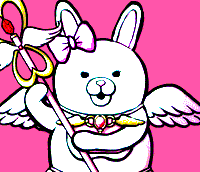
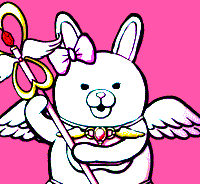
Usami: let raised wands reach into the clock band, outline the digits
Poses with art above their crop window (01, 02, 04, 09, 10, 12, mostly the
wand) now keep it: with "extend_into_clock" in convert.json, the image tool
makes those images taller, up to the clock band's height. The engine draws
an image's extra rows above the foreground area and slides it far enough
to hide it fully.

The clock is now drawn by a plain layer instead of a TextLayer, so a face
can set CLOCK_OUTLINE_COLOR and CLOCK_OUTLINE_W for an outline (the digits
drawn offset in that color, then the digits on top). On color screens the
outline is removed again wherever the pixel underneath was plain
BG_COLOR, so it shows only where the digits cross an image. Usami uses a
white outline; Monokuma has none and looks the same as before.

diff --git a/shared/src/c/main.c b/shared/src/c/main.c
@@ -9,8 +9,10 @@
 #include "face_config.h"
 
 #define SCREEN_H          PBL_DISPLAY_HEIGHT
+// s_fg_y is the top of the FG_W x FG_H foreground area. An image can be
+// taller than FG_H; the extra rows reach up into the clock band above it.
 #define FG_Y_SHOWN        (SCREEN_H - FG_H)
-#define FG_Y_HIDDEN       SCREEN_H
+#define FG_Y_HIDDEN       SCREEN_H   // for an image FG_H tall; see fg_y_hidden()
 #define CLOCK_H           FG_Y_SHOWN
 #define ANIM_INTERVAL_MS  33    // ~30 fps
 #define FADE_MAX          4     // fade steps; 4 * 33ms = 132ms per fade
@@ -51,8 +53,10 @@ typedef enum {
 
 static Window    *s_window;
 static Layer     *s_canvas_layer;
-static TextLayer *s_time_layer;
+static Layer     *s_time_layer;   // the clock, drawn by time_update_proc
 static GFont      s_custom_font;
+static GFont      s_clock_gfont;   // the font in use (custom or LECO)
+static const char *s_time_text = "";
 
 // Clock fonts offered in the settings; values match config.js.
 typedef enum {
@@ -110,6 +114,21 @@ static void select_and_load_fg(void) {
     s_fg_bitmap = gbitmap_create_with_resource(s_fg_res_ids[idx]);
 }
 
+static void set_time_text(const char *text) {
+    s_time_text = text;
+    if (s_time_layer) layer_mark_dirty(s_time_layer);
+}
+
+// Rows the current image reaches above the foreground area.
+static int fg_extra_h(void) {
+    return s_fg_bitmap ? gbitmap_get_bounds(s_fg_bitmap).size.h - FG_H : 0;
+}
+
+// s_fg_y at which the current image is fully below the screen.
+static int fg_y_hidden(void) {
+    return FG_Y_HIDDEN + fg_extra_h();
+}
+
 static void update_time(void) {
 #if DEBUG_CYCLE
     if (s_last_fg >= 0) {
@@ -117,7 +136,7 @@ static void update_time(void) {
         s_time_buf[0] = '0' + n / 10;
         s_time_buf[1] = '0' + n % 10;
         s_time_buf[2] = '\0';
-        text_layer_set_text(s_time_layer, s_time_buf);
+        set_time_text(s_time_buf);
         return;
     }
 #endif
@@ -126,11 +145,10 @@ static void update_time(void) {
     if (!t) return;
     if (clock_is_24h_style()) {
         strftime(s_time_buf, sizeof(s_time_buf), "%H:%M", t);
-        text_layer_set_text(s_time_layer, s_time_buf);
+        set_time_text(s_time_buf);
     } else {
         strftime(s_time_buf, sizeof(s_time_buf), "%I:%M", t);
-        text_layer_set_text(s_time_layer,
-            s_time_buf[0] == '0' ? s_time_buf + 1 : s_time_buf);
+        set_time_text(s_time_buf[0] == '0' ? s_time_buf + 1 : s_time_buf);
     }
 }
 
@@ -163,8 +181,84 @@ static void canvas_update_proc(Layer *layer, GContext *ctx) {
     if (s_fg_bitmap) {
         graphics_context_set_compositing_mode(ctx, GCompOpSet);
         graphics_draw_bitmap_in_rect(ctx, s_fg_bitmap,
-                                     GRect(FG_X, s_fg_y, FG_W, FG_H));
+                                     GRect(FG_X, s_fg_y - fg_extra_h(),
+                                           FG_W, FG_H + fg_extra_h()));
     }
+}
+
+// ============================================================================
+// CLOCK
+// ============================================================================
+
+static void draw_time(GContext *ctx, GRect box, GColor color) {
+    graphics_context_set_text_color(ctx, color);
+    graphics_draw_text(ctx, s_time_text, s_clock_gfont, box,
+                       GTextOverflowModeWordWrap, GTextAlignmentCenter, NULL);
+}
+
+#ifdef CLOCK_OUTLINE_COLOR
+// The outline shows only where the digits cross the image (a pose reaching
+// into the clock band), not over the plain background. On color screens the
+// update proc notes which pixels under the clock are plain BG_COLOR before
+// drawing, then turns the outline back to BG_COLOR there. On black-and-white
+// screens the background is white like the outline, so no fix-up is needed.
+#if defined(PBL_COLOR)
+#define CLOCK_MASK_BYTES  ((PBL_DISPLAY_WIDTH * CLOCK_H + 7) / 8)
+static uint8_t s_bg_mask[CLOCK_MASK_BYTES];  // 1 = plain background pixel
+
+// For each screen pixel in rows [0, rows): record (record=true) whether it
+// is BG_COLOR, or restore (record=false) outline pixels recorded as BG_COLOR.
+static void scan_clock_band(GContext *ctx, int rows, bool record) {
+    GBitmap *fb = graphics_capture_frame_buffer(ctx);
+    if (!fb) return;
+    const uint8_t bg = BG_COLOR.argb;
+    const uint8_t outline = CLOCK_OUTLINE_COLOR.argb;
+    for (int y = 0; y < rows; y++) {
+        GBitmapDataRowInfo row = gbitmap_get_data_row_info(fb, y);
+        for (int x = row.min_x; x <= row.max_x; x++) {
+            int i = y * PBL_DISPLAY_WIDTH + x;
+            uint8_t bit = 1 << (i & 7);
+            if (record) {
+                if (row.data[x] == bg) s_bg_mask[i >> 3] |= bit;
+                else                   s_bg_mask[i >> 3] &= ~bit;
+            } else if ((s_bg_mask[i >> 3] & bit) && row.data[x] == outline) {
+                row.data[x] = bg;
+            }
+        }
+    }
+    graphics_release_frame_buffer(ctx, fb);
+}
+#endif
+#endif
+
+static void time_update_proc(Layer *layer, GContext *ctx) {
+    GRect box = layer_get_bounds(layer);
+#ifdef CLOCK_OUTLINE_COLOR
+    // The layer's rows on screen that the clock can draw in.
+    GRect frame = layer_get_frame(layer);
+    int rows = frame.origin.y + frame.size.h;
+    if (rows > CLOCK_H) rows = CLOCK_H;
+#if defined(PBL_COLOR)
+    scan_clock_band(ctx, rows, true);
+#endif
+    const int w = CLOCK_OUTLINE_W;
+    for (int dy = -w; dy <= w; dy++) {
+        for (int dx = -w; dx <= w; dx++) {
+            if ((dx || dy) && dx * dx + dy * dy <= w * w + w) {
+                draw_time(ctx, GRect(box.origin.x + dx, box.origin.y + dy,
+                                     box.size.w, box.size.h),
+                          CLOCK_OUTLINE_COLOR);
+            }
+        }
+    }
+    draw_time(ctx, box, CLOCK_COLOR);
+#if defined(PBL_COLOR)
+    scan_clock_band(ctx, rows, false);
+#endif
+    (void)rows;
+#else
+    draw_time(ctx, box, CLOCK_COLOR);
+#endif
 }
 
 // ============================================================================
@@ -215,8 +309,8 @@ static void anim_timer_callback(void *data) {
 
         case STATE_SLIDING_DOWN:
             s_fg_y += SLIDE_STEP;
-            if (s_fg_y >= FG_Y_HIDDEN) {
-                s_fg_y = FG_Y_HIDDEN;
+            if (s_fg_y >= fg_y_hidden()) {
+                s_fg_y = fg_y_hidden();
                 layer_mark_dirty(s_canvas_layer);
                 start_fade_in(AFTER_PAUSE);
                 return;
@@ -239,7 +333,7 @@ static void anim_timer_callback(void *data) {
 #endif
                     if (!s_clock_appeared) {
                         s_clock_appeared = true;
-                        layer_set_hidden(text_layer_get_layer(s_time_layer), false);
+                        layer_set_hidden(s_time_layer, false);
                     }
                 } else if (action == AFTER_PAUSE) {
                     s_state = STATE_PAUSING;
@@ -277,7 +371,7 @@ static void start_fade_in(AfterFade next) {
 
 static void start_slide_up(void) {
     s_state = STATE_SLIDING_UP;
-    s_fg_y = FG_Y_HIDDEN;
+    s_fg_y = fg_y_hidden();
     layer_mark_dirty(s_canvas_layer);
     s_anim_timer = app_timer_register(ANIM_INTERVAL_MS, anim_timer_callback, NULL);
 }
@@ -314,14 +408,14 @@ static void apply_shake_setting(void) {
 
 static void apply_clock_font(void) {
     if (!s_time_layer) return;
-    Layer *layer = text_layer_get_layer(s_time_layer);
+    Layer *layer = s_time_layer;
     GRect frame = layer_get_frame(layer);
     if (s_clock_font == CLOCK_FONT_LECO) {
-        text_layer_set_font(s_time_layer, fonts_get_system_font(LECO_KEY));
+        s_clock_gfont = fonts_get_system_font(LECO_KEY);
         frame.origin.y = LECO_Y;
         frame.size.h = CLOCK_H - LECO_Y;
     } else {
-        text_layer_set_font(s_time_layer, s_custom_font);
+        s_clock_gfont = s_custom_font;
         frame.origin.y = CUSTOM_FONT_Y;
         frame.size.h = CLOCK_H - CUSTOM_FONT_Y;
     }
@@ -387,12 +481,10 @@ static void window_load(Window *window) {
 
     s_custom_font = fonts_load_custom_font(
         resource_get_handle(CUSTOM_FONT_RES));
-    s_time_layer = text_layer_create(GRect(0, 0, bounds.size.w, CLOCK_H));
-    text_layer_set_background_color(s_time_layer, GColorClear);
-    text_layer_set_text_color(s_time_layer, CLOCK_COLOR);
-    text_layer_set_text_alignment(s_time_layer, GTextAlignmentCenter);
-    layer_set_hidden(text_layer_get_layer(s_time_layer), true);
-    layer_add_child(root, text_layer_get_layer(s_time_layer));
+    s_time_layer = layer_create(GRect(0, 0, bounds.size.w, CLOCK_H));
+    layer_set_update_proc(s_time_layer, time_update_proc);
+    layer_set_hidden(s_time_layer, true);
+    layer_add_child(root, s_time_layer);
 
     apply_clock_font();
     apply_shake_setting();
@@ -412,7 +504,7 @@ static void window_unload(Window *window) {
     accel_tap_service_unsubscribe();
     tick_timer_service_unsubscribe();
 
-    if (s_time_layer)  { text_layer_destroy(s_time_layer);  s_time_layer  = NULL; }
+    if (s_time_layer)  { layer_destroy(s_time_layer);       s_time_layer  = NULL; }
     if (s_custom_font) { fonts_unload_custom_font(s_custom_font); s_custom_font = NULL; }
     if (s_canvas_layer){ layer_destroy(s_canvas_layer);     s_canvas_layer = NULL; }
     if (s_fg_bitmap)   { gbitmap_destroy(s_fg_bitmap);      s_fg_bitmap   = NULL; }

diff --git a/shared/tools/convert_images.py b/shared/tools/convert_images.py
@@ -43,6 +43,11 @@ A face can have a faces/<face>/convert.json; every key is optional:
         platform's foreground shape needs. It replaces the automatic zoom,
         so a face can show its character at the same size in every pose;
         anything outside the view is cut off.
+    "extend_into_clock": true  with "crops": a pose with more of the
+        character above its view (a raised wand) keeps it, up to the height
+        of the clock band. That image is taller than the foreground area,
+        and the engine draws the extra rows over the band. The band must be
+        plain background color, so the extra rows can be opaque.
 Without background1.png's red shape, the menu icon comes from
 unscaled/menu_icon.png (an RGBA image of any size) instead.
 
@@ -139,12 +144,27 @@ SUN = [
 ATKINSON = [(1, 0), (2, 0), (-1, 1), (0, 1), (1, 1), (0, 2)]
 
 
-def crop_view(src, fg_w, fg_h, fill, view):
-    """Scale a fixed view of src (see "crops" above) to fg_w x fg_h."""
+def crop_view(src, fg_w, fg_h, fill, view, max_extra=0):
+    """Scale a fixed view of src (see "crops" above) to fg_w x fg_h.
+
+    With max_extra > 0, the result grows upward by up to max_extra rows to
+    keep any part of the character above the view.
+    """
     flat = flatten(src, fill)
     top, bottom = view["top"], view["bottom"]
+    zoom = fg_h / (bottom - top)
     crop_w = (bottom - top) * fg_w / fg_h
     left = view["center_x"] - crop_w / 2
+    out_h = fg_h
+    if max_extra > 0:
+        # Highest visible pixel of the character within the view's columns.
+        alpha = np.asarray(src.convert("RGBA").getchannel("A"))
+        x0, x1 = max(0, int(left)), min(src.width, int(left + crop_w) + 1)
+        rows = np.nonzero((alpha[:, x0:x1] > 64).any(axis=1))[0]
+        if len(rows) and rows[0] < top:
+            extra = min(max_extra, int(np.ceil((top - rows[0]) * zoom)) + 1)
+            out_h = fg_h + extra
+            top -= extra / zoom
     # Pad so a view past the image edges still works.
     pad = int(max(-left, -top, left + crop_w - flat.width,
                   bottom - flat.height, 0)) + 1
@@ -152,7 +172,7 @@ def crop_view(src, fg_w, fg_h, fill, view):
                        fill)
     padded.paste(flat, (pad, pad))
     box = (left + pad, top + pad, left + crop_w + pad, bottom + pad)
-    return padded.resize((fg_w, fg_h), Image.LANCZOS, box=box)
+    return padded.resize((fg_w, out_h), Image.LANCZOS, box=box)
 
 
 def scale(src, fg_w, fg_h, fill=(0, 0, 0)):
@@ -406,7 +426,10 @@ def main():
             name = f"front{n:02d}.png"
             src = Image.open(os.path.join(unscaled, name))
             if name in crops:
-                scaled = crop_view(src, fg_w, fg_h, fill, crops[name])
+                max_extra = (spec["screen"][1] - fg_h
+                             if config.get("extend_into_clock") else 0)
+                scaled = crop_view(src, fg_w, fg_h, fill, crops[name],
+                                   max_extra)
             else:
                 scaled = scale(src, fg_w, fg_h, fill)
             out = f"front{n:02d}{suffix}.png"

diff --git a/faces/usami/src/c/face_config.h b/faces/usami/src/c/face_config.h
@@ -17,6 +17,10 @@
 // and the clock digits. BG_COLOR must match convert.json's colors.
 #define BG_COLOR          PBL_IF_COLOR_ELSE(GColorBrilliantRose, GColorWhite)
 #define CLOCK_COLOR       GColorBlack
+// A white outline keeps the digits readable where a pose (the raised wand)
+// reaches into the clock band; it's left out over the plain background.
+// CLOCK_OUTLINE_W (px) is set per platform below.
+#define CLOCK_OUTLINE_COLOR GColorWhite
 
 // Per-platform layout, scaled from emery's. The foreground keeps emery's
 // 200:172 shape and sits on the bottom edge; the clock is centered in the
@@ -33,6 +37,7 @@
 #define LECO_KEY          FONT_KEY_LECO_32_BOLD_NUMBERS
 #define LECO_Y            2
 #define SLIDE_STEP        9
+#define CLOCK_OUTLINE_W   1
 #elif defined(PBL_PLATFORM_CHALK)       // 180x180 round
 #define FG_X              19
 #define FG_W              142
@@ -42,6 +47,7 @@
 #define LECO_KEY          FONT_KEY_LECO_32_BOLD_NUMBERS
 #define LECO_Y            16
 #define SLIDE_STEP        9
+#define CLOCK_OUTLINE_W   1
 #elif defined(PBL_PLATFORM_GABBRO)      // 260x260 round
 #define FG_X              24
 #define FG_W              212
@@ -51,6 +57,7 @@
 #define LECO_KEY          FONT_KEY_LECO_42_NUMBERS
 #define LECO_Y            24
 #define SLIDE_STEP        13
+#define CLOCK_OUTLINE_W   2
 #else                                   // emery, 200x228
 #define FG_X              0
 #define FG_W              200
@@ -60,4 +67,5 @@
 #define LECO_KEY          FONT_KEY_LECO_42_NUMBERS
 #define LECO_Y            0
 #define SLIDE_STEP        12    // pixels per frame
+#define CLOCK_OUTLINE_W   2
 #endif

diff --git a/faces/usami/README.md b/faces/usami/README.md
@@ -5,7 +5,7 @@ A watchface built on the shared engine, like [Monokuma Appears!](../monokuma/REA
 ## Look
 
 - **Background:** pink (`GColorBrilliantRose`) on color watches and white on black-and-white ones, with a blue gem. Light pinks would look almost white on the real display, so this face uses Brilliant Rose.
-- **Clock:** black digits, DorBlue by default (`resources/fonts/dorblue-font/`), with LECO as the alternative in the settings.
+- **Clock:** black digits, DorBlue by default (`resources/fonts/dorblue-font/`), with LECO as the alternative in the settings. Where the digits cross a pose (the raised wand), they get a white outline (`CLOCK_OUTLINE_COLOR`, 2 px on emery and gabbro, 1 px on the smaller screens); over the plain background there's none.
 
 The colors are set in two places that must agree: `BG_COLOR` and `CLOCK_COLOR` in `src/c/face_config.h` (for the watch), and `convert.json` (for the image tool, which fills the originals' transparent areas with the background color).
 
@@ -21,7 +21,7 @@ Then convert the images (next section).
 
 ## The poses
 
-The originals in `resources/images/unscaled/` (`front01.png` … `front12.png`) are full-body sprites with transparent backgrounds, all drawn at the same scale. Unlike Monokuma's, they aren't zoomed one by one: each gets a fixed crop window, the same size for every pose, so Usami is the same size in all of them. The window is placed by the heart brooch on Usami's collar. It runs from just above the ear tips to the top of the skirt, so the skirt is cut off the way Monokuma's originals stop at his belly. A wand raised higher than the ears is cut off at the top (front04), and wing tips can be cut at the sides.
+The originals in `resources/images/unscaled/` (`front01.png` … `front12.png`) are full-body sprites with transparent backgrounds, all drawn at the same scale. Unlike Monokuma's, they aren't zoomed one by one: each gets a fixed crop window, the same size for every pose, so Usami is the same size in all of them. The window is placed by the heart brooch on Usami's collar. It runs from just above the ear tips to the top of the skirt, so the skirt is cut off the way Monokuma's originals stop at his belly. Anything above the window, usually the wand, isn't cut off: with `"extend_into_clock": true` in `convert.json`, those poses (01, 02, 04, 09, 10 and 12) come out taller and reach up into the pink clock band, up to its full height, and the digits are drawn over them. Wing tips can still be cut at the sides.
 
 `tools/find_crops.py` finds each brooch and writes the windows to `convert.json` (`"crops"`). To show more or less of Usami, change `ABOVE` and `BELOW` at the top of the script.
 

diff --git a/README.md b/README.md
@@ -14,7 +14,7 @@ Watchfaces that share one engine: a character slides up over a background in a r
 - `faces/<name>/`: one complete Pebble project per face
   - `package.json`: UUID, display name, resources and message keys
   - `wscript`: builds `src/c/` plus `../../shared/src/c/`, with `src/c/` on the include path
-  - `src/c/face_config.h`: what the engine needs from the face: `NUM_FG_IMAGES`, `FG_RES_IDS`, the colors (`BG_COLOR` behind the images, `CLOCK_COLOR` for the digits), and the per-platform layout and clock font constants
+  - `src/c/face_config.h`: what the engine needs from the face: `NUM_FG_IMAGES`, `FG_RES_IDS`, the colors (`BG_COLOR` behind the images, `CLOCK_COLOR` for the digits, and optionally `CLOCK_OUTLINE_COLOR` with a per-platform `CLOCK_OUTLINE_W` for an outline that shows only where the digits cross an image), and the per-platform layout and clock font constants
   - `convert.json` (optional): the background colors for the image tool (see "Adding a face")
   - `src/pkjs/`: the Clay settings page (`config.js`) and the phone-side JS that starts it
   - `resources/`: images (originals in `resources/images/unscaled/`) and fonts
